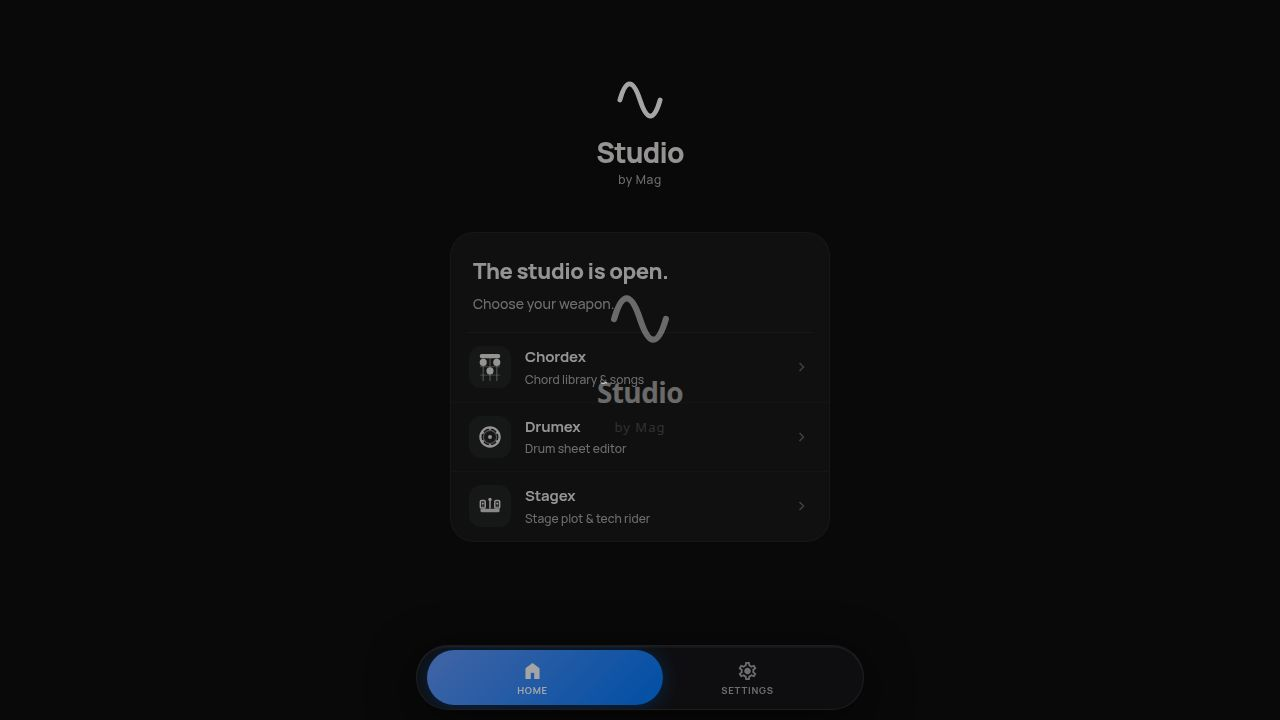
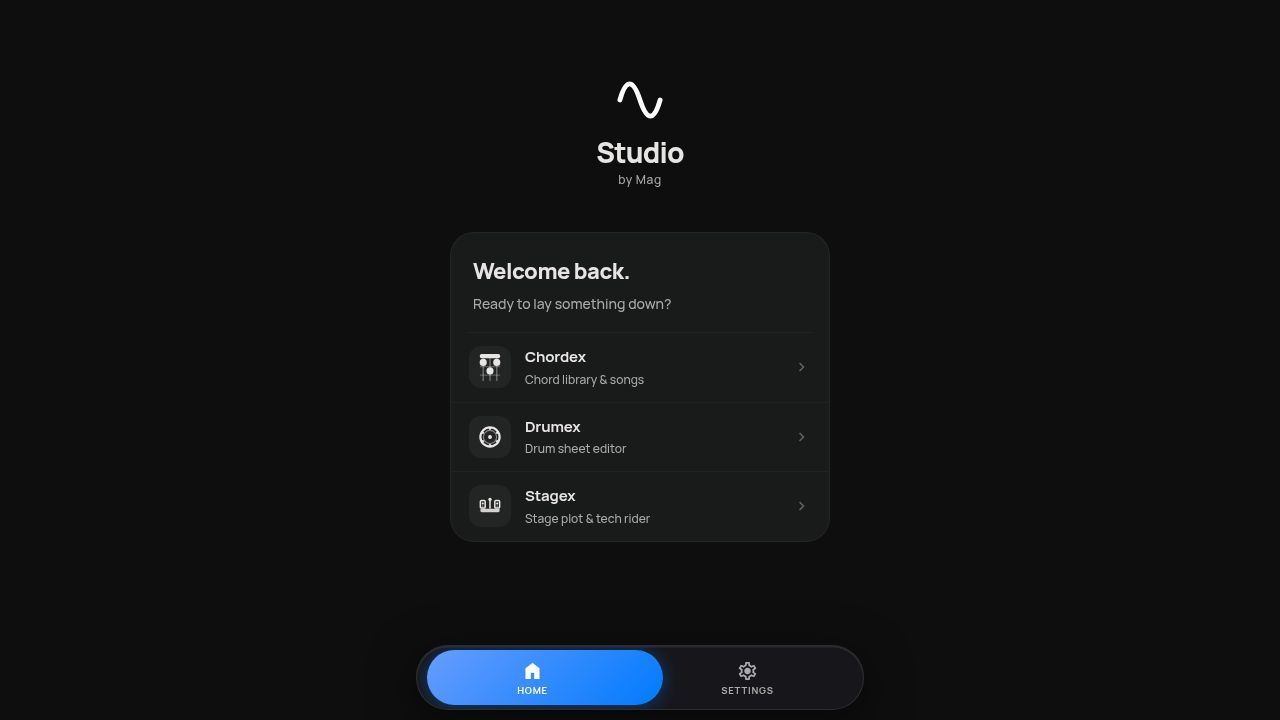
Improve application security by updating dependencies and validating cross-origin messages
Addresses dependency vulnerabilities by updating packages like brace-expansion, esbuild, and yaml. Implements security fixes for postMessage communication by replacing wildcard targets with window.location.origin and adding origin validation on message listeners.

Replit-Commit-Author: Agent
Replit-Commit-Session-Id: 84d0cfd9-c086-4856-8bdb-4d5b147a5617
Replit-Commit-Checkpoint-Type: full_checkpoint
Replit-Commit-Event-Id: 95bf7d34-d2cb-4df7-9ee8-1a1498862731
Replit-Commit-Screenshot-Url: https://storage.googleapis.com/screenshot-production-us-central1/7f09100f-dd8e-47a3-b546-be3892196b17/84d0cfd9-c086-4856-8bdb-4d5b147a5617/scL0937
Replit-Helium-Checkpoint-Created: true

diff --git a/artifacts/chord-app/src/components/StageCorePanel.tsx b/artifacts/chord-app/src/components/StageCorePanel.tsx
@@ -145,7 +145,7 @@ export default function StagexPanel() {
       }
     } catch {}
     try {
-      iframe.contentWindow?.postMessage({ type: 'sc-call', fn, arg }, '*');
+      iframe.contentWindow?.postMessage({ type: 'sc-call', fn, arg }, window.location.origin);
     } catch {}
   }, []);
 
@@ -154,7 +154,7 @@ export default function StagexPanel() {
     if (!iframe) return;
     const handleLoad = () => {
       iframeReady.current = true;
-      try { iframe.contentWindow?.postMessage('stage-core-ping', '*'); } catch {}
+      try { iframe.contentWindow?.postMessage('stage-core-ping', window.location.origin); } catch {}
       injectAccentVars(iframe, accent.from, accent.to);
       injectTheme(iframe, stageVis.theme ?? 'dark');
       injectAmoled(iframe, isAmoled);
@@ -176,10 +176,10 @@ export default function StagexPanel() {
               function h(e){
                 var y=e.target.scrollTop;
                 if(typeof y!=='number')return;
-                if(y<30){window.parent.postMessage({type:'sc-scroll-dir',down:false},'*');ly=y;return;}
+                if(y<30){window.parent.postMessage({type:'sc-scroll-dir',down:false},window.location.origin);ly=y;return;}
                 var dy=y-ly;
                 if(Math.abs(dy)<6)return;
-                window.parent.postMessage({type:'sc-scroll-dir',down:dy>0},'*');
+                window.parent.postMessage({type:'sc-scroll-dir',down:dy>0},window.location.origin);
                 ly=y;
               }
               document.addEventListener('scroll',h,{passive:true,capture:true});
@@ -201,6 +201,7 @@ export default function StagexPanel() {
 
   useEffect(() => {
     const onMsg = (e: MessageEvent) => {
+      if (e.origin !== window.location.origin) return;
       if (e.source !== iframeRef.current?.contentWindow) return;
       if (e.data?.type === 'sc-dial-state') setFabOpen(!!e.data.open);
       if (e.data?.type === 'sc-scroll-dir') setStageNavHidden(!!e.data.down);

diff --git a/artifacts/chord-app/public/stage-core/app.js b/artifacts/chord-app/public/stage-core/app.js
@@ -1013,7 +1013,7 @@ function toggleSCDial() {
 function openSCDial() {
   _buildDial();
   _dialOpen = true;
-  try { window.parent.postMessage({ type: 'sc-dial-state', open: true }, '*'); } catch(e) {}
+  try { window.parent.postMessage({ type: 'sc-dial-state', open: true }, window.location.origin); } catch(e) {}
   closeMobileElTray();
   const wrap  = document.getElementById('sc-fab-wrap');
   const chips = wrap ? wrap.querySelectorAll('.sc-dial-chip') : [];
@@ -1032,7 +1032,7 @@ function openSCDial() {
 function closeSCDial() {
   if (!_dialOpen) return;
   _dialOpen = false;
-  try { window.parent.postMessage({ type: 'sc-dial-state', open: false }, '*'); } catch(e) {}
+  try { window.parent.postMessage({ type: 'sc-dial-state', open: false }, window.location.origin); } catch(e) {}
   const wrap  = document.getElementById('sc-fab-wrap');
   const chips = wrap ? wrap.querySelectorAll('.sc-dial-chip') : [];
   const total = chips.length;
@@ -1105,7 +1105,7 @@ function closeItemSheet(goBackToChips) {
   if (goBackToChips) {
     setTimeout(() => openSCDial(), 190);
   } else {
-    try { window.parent.postMessage({ type: 'sc-dial-state', open: false }, '*'); } catch(e) {}
+    try { window.parent.postMessage({ type: 'sc-dial-state', open: false }, window.location.origin); } catch(e) {}
     // Spring "return home" pulse when the FAB lands back in its resting state
     const btn = document.getElementById('sc-fab-btn');
     if (btn) {

diff --git a/artifacts/chord-app/public/stage-core/index.html b/artifacts/chord-app/public/stage-core/index.html
@@ -3534,6 +3534,7 @@ Front-fills mandatory for the first 3 rows. All wireless systems must be frequen
 
 <script>
 window.addEventListener('message', function(e) {
+  if (e.origin !== window.location.origin) return;
   if (e.data === 'stage-core-return-hub') {
     window.parent.dispatchEvent(new CustomEvent('studio-hub-return'));
   }
@@ -3759,6 +3760,7 @@ window.addEventListener('message', function(e) {
    * We look up the function in window and call it.  This works even when   *
    * contentWindow direct access is restricted by the Android WebView.      */
   window.addEventListener('message', function (e) {
+    if (e.origin !== window.location.origin) return;
     if (!e.data || e.data.type !== 'sc-call') return;
     var fn  = e.data.fn;
     var arg = e.data.arg;

diff --git a/replit.md b/replit.md
@@ -114,6 +114,19 @@ Generated Zod schemas from the OpenAPI spec (e.g. `HealthCheckResponse`). Used b
 
 Generated React Query hooks and fetch client from the OpenAPI spec (e.g. `useHealthCheck`, `healthCheck`).
 
+## Security Overrides (pnpm)
+
+The root `package.json` includes pnpm overrides to patch transitive dependency vulnerabilities:
+- `path-to-regexp@8.3.0` → `8.4.0`
+- `picomatch@2.3.1` → `2.3.2`, `picomatch@4.0.3` → `4.0.4`
+- `lodash@4.17.23` → `4.18.0`
+- `tar@6.2.1` → `7.5.11`
+- `brace-expansion@2.0.2` → `2.0.3`
+- `esbuild@0.18.20` → `0.25.0`
+- `yaml@2.8.2` → `2.8.3`
+
+postMessage calls between the React parent and stage-core iframe use `window.location.origin` (not `'*'`) and message listeners validate `e.origin` before processing.
+
 ### `scripts` (`@workspace/scripts`)
 
 Utility scripts package. Each script is a `.ts` file in `src/` with a corresponding npm script in `package.json`. Run scripts via `pnpm --filter @workspace/scripts run <script>`. Scripts can import any workspace package (e.g., `@workspace/db`) by adding it as a dependency in `scripts/package.json`.